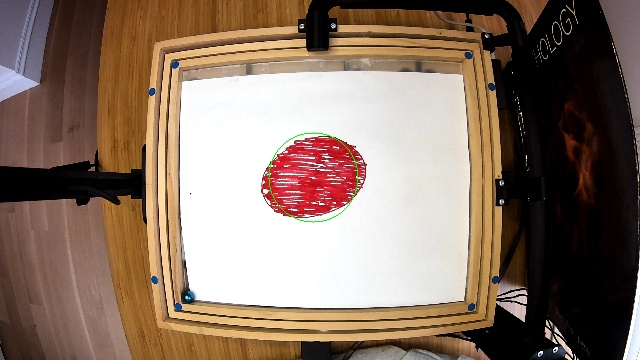
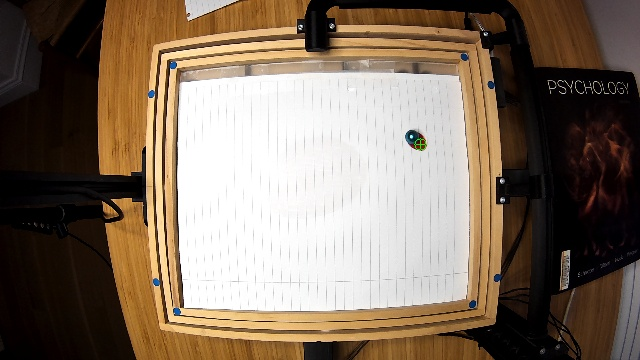
Reload unjam: ball caught under the board -> slow held full tilts (no elevator reverse)

diff --git a/rl_hw/pd_balance.py b/rl_hw/pd_balance.py
@@ -223,8 +223,8 @@ VIA_REACH = 0.02                       # this close to a via point -> head for t
 RELOAD_TIMEOUT_S = 90.0                # ball lost near a hole: run the elevator this long at most
 RELOAD_TIMEOUT_OTHER_S = 15.0          # lost elsewhere (e.g. hidden in a corner): shorter, then the gentle recovery
 RELOAD_UNITS = int(os.environ.get("PD_RELOAD_UNITS", "328"))      # elevator speed for a reload (~75 rpm)
-UNJAM_AFTER_S = 10.0                   # ball not back this long -> it is caught inside: unjam, then every 10 s
-UNJAM_TILT = 0.8                       # slow full tilt (action units, 4 deg) toward each side in turn
+UNJAM_AFTER_S = 10.0                   # ball not back this long -> it is caught under the board: unjam, then every 10 s
+UNJAM_TILT = 1.0                       # slow full tilt (action units, 5 deg) toward each side in turn, held
 RELOAD_SEEN_FRAMES = 5                 # ball visible on the paper this many frames in a row = reloaded
 GOAL_TOLERANCE = 0.0455
 # Direct feedback while watching this live: correcting X and Y together lets the
@@ -478,19 +478,16 @@ def main():
         tilt_dirs = [np.array(d, dtype=np.float32) for d in ((1, 0), (0, 1), (-1, 0), (0, -1))]
         while time.time() - t0 < timeout:
             if timeout >= RELOAD_TIMEOUT_S and time.time() - t0 > next_unjam and elevator.on:
-                # caught inside the frame / return channel: back the elevator off for 1 s,
-                # then forward again, while the board tilts slowly to one side (ramped, no jolt)
+                # caught under the board on its way to the elevator: tilt the whole board
+                # slowly to one side (ramped over 1 s, no jolt) and hold, so it rolls on
                 d = tilt_dirs[n_unjam % 4]
                 n_unjam += 1
-                print(f"  ball not back after {time.time() - t0:.0f} s -- unjam {n_unjam}: elevator reverse 1 s, "
-                      f"slow tilt {tuple(d)}")
-                elevator._w4(104, -elevator.units)
+                print(f"  ball not back after {time.time() - t0:.0f} s -- unjam {n_unjam}: slow tilt {tuple(d)}")
                 for k in range(1, 21):
                     env._write_action(d * UNJAM_TILT * k / 20)
                     time.sleep(0.05)
-                elevator._w4(104, elevator.units)
                 t_hold = time.time()
-                while time.time() - t_hold < 2.0:
+                while time.time() - t_hold < 2.5:
                     env._read_state()
                     time.sleep(0.03)
                 for k in range(19, -1, -1):
